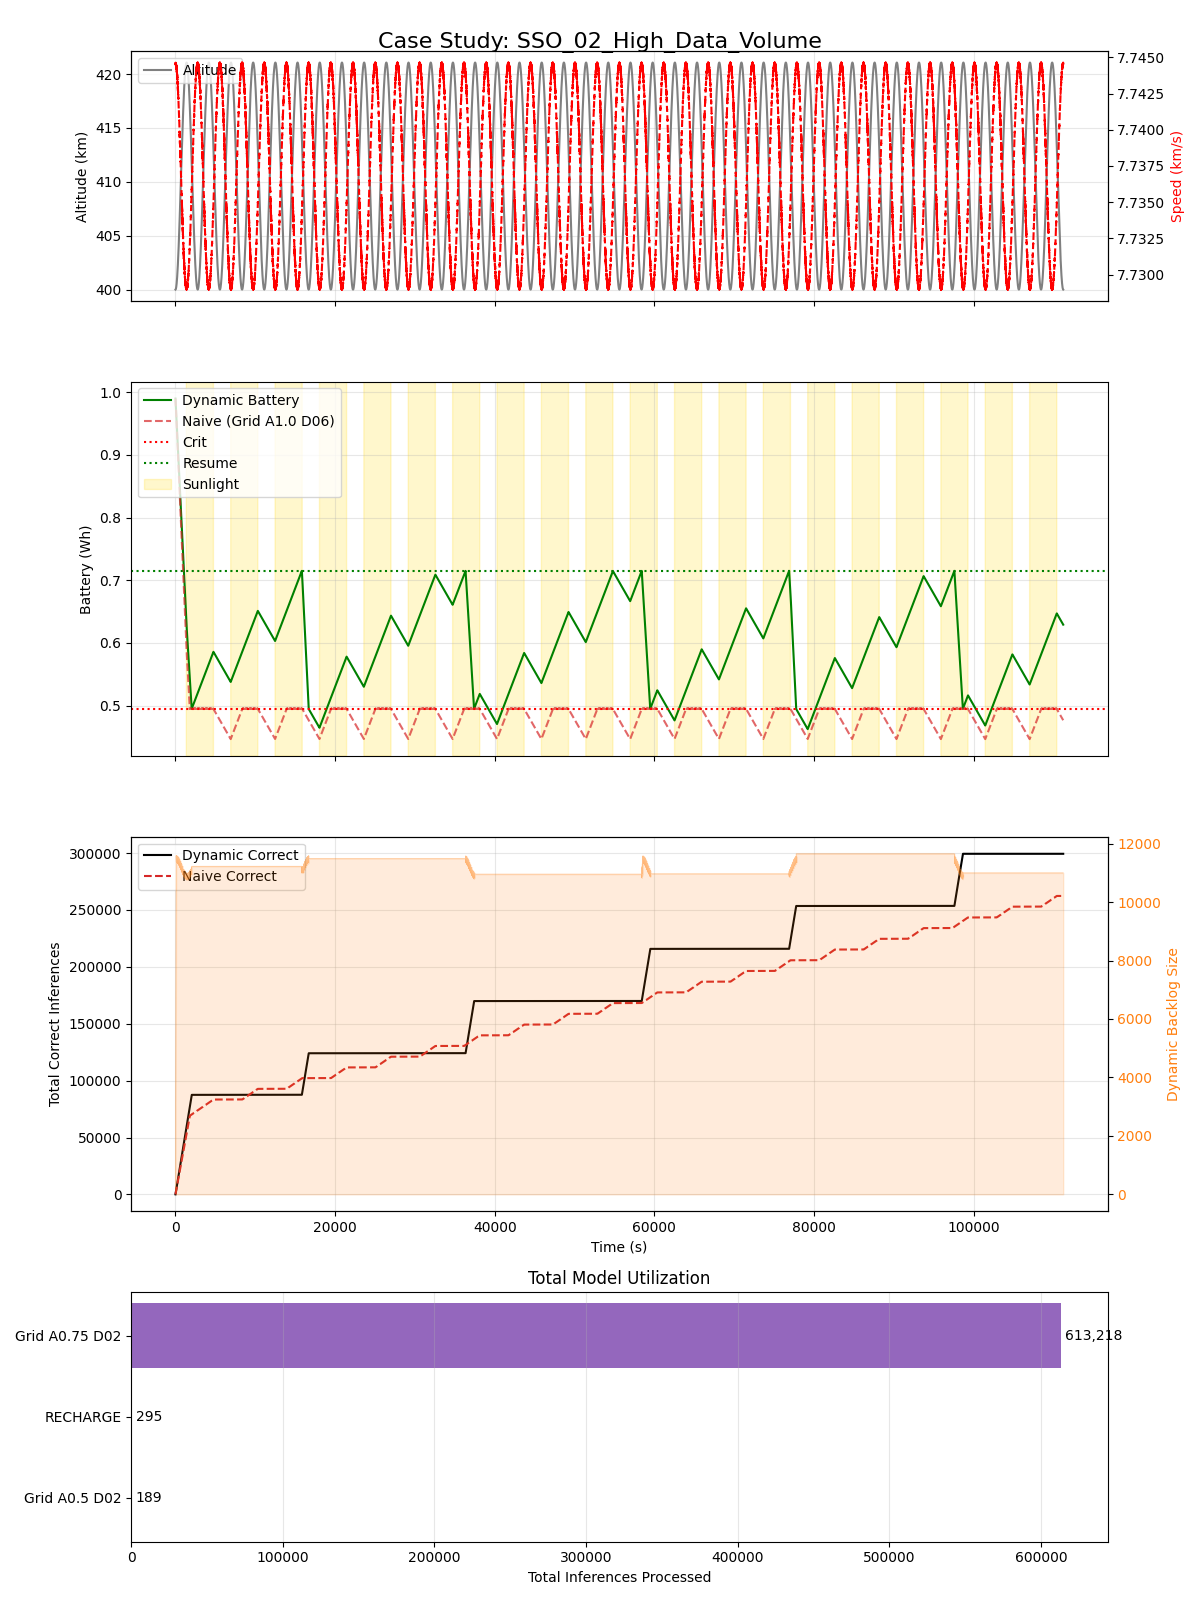
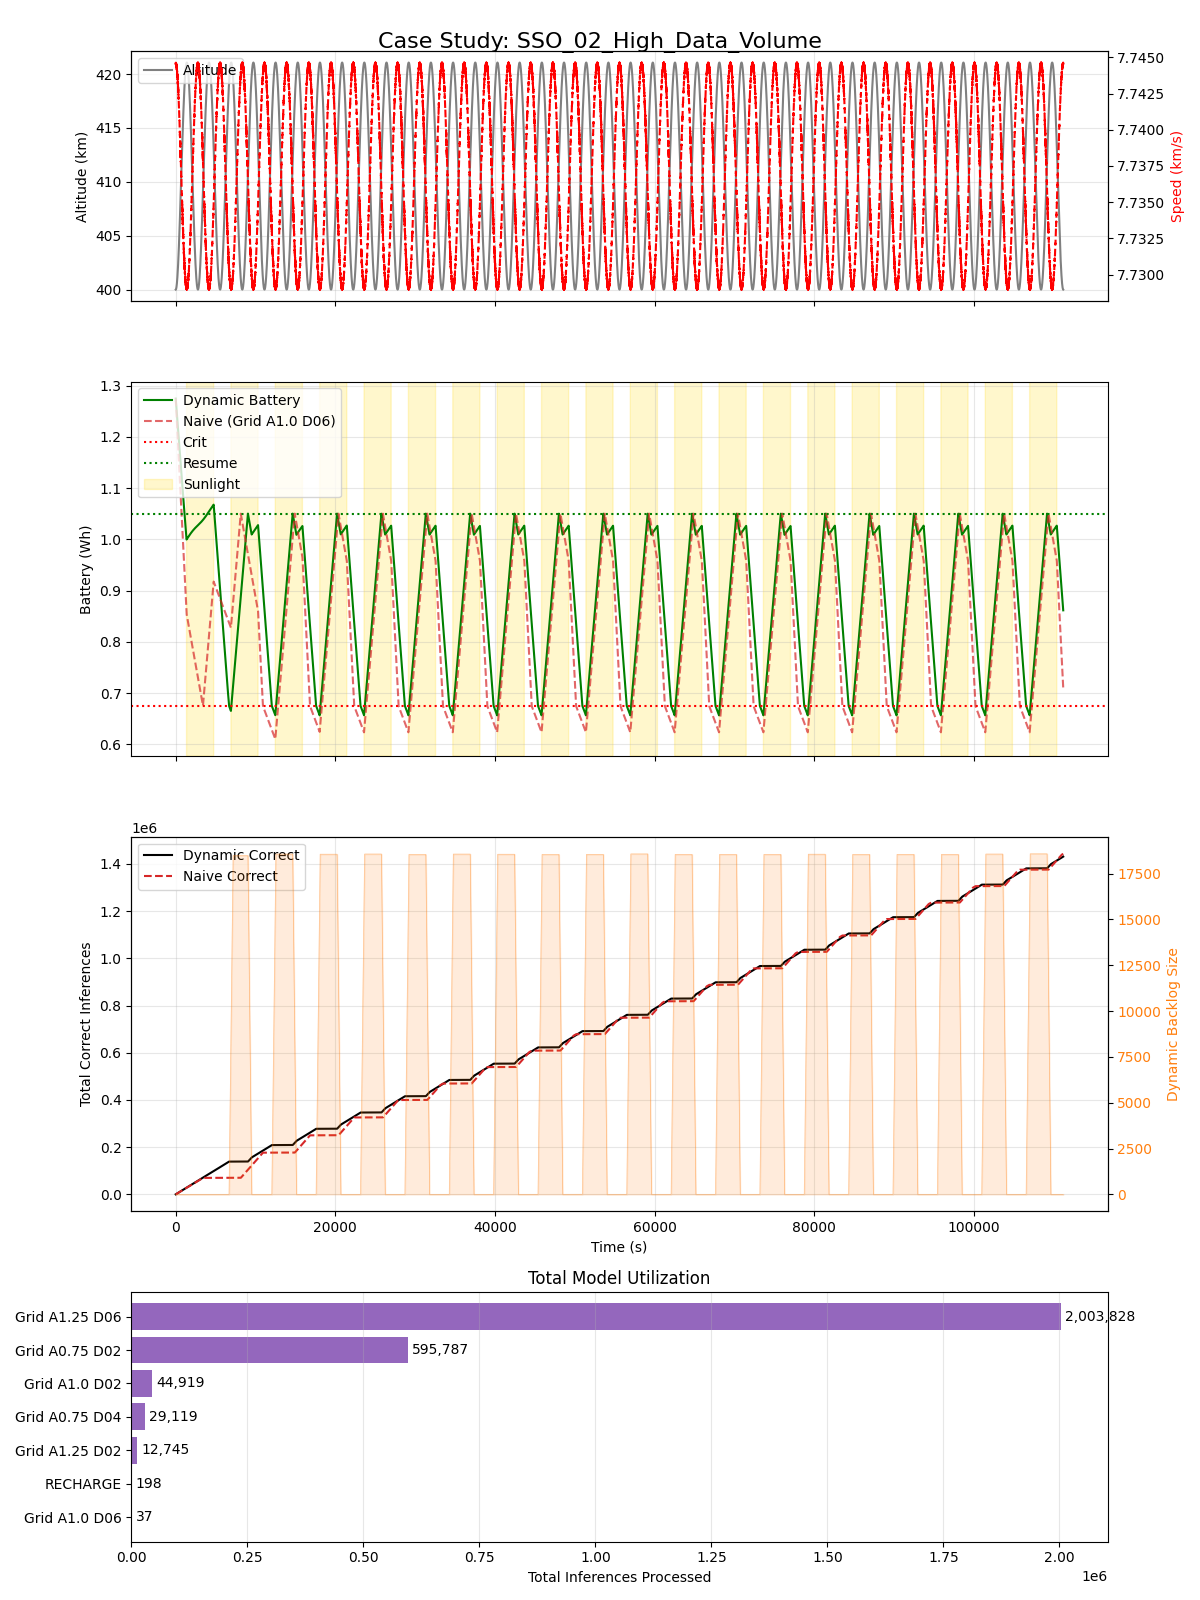
updated configs and generated new plots

diff --git a/src/scripts/dynamic_selection_sims/continuous_dynamic_execution.py b/src/scripts/dynamic_selection_sims/continuous_dynamic_execution.py
@@ -32,23 +32,56 @@ class ContinuousSatSim:
     and compute workloads using both a dynamic model selection strategy and 
     a naive baseline for comparison.
     """
-    DEFAULT_SYSTEM = {
-        'focal_length_mm': 500.0,
+    
+    BASE_SYSTEM = {
         'pixel_pitch_um': 3.45,
         'sensor_res': 4096,
-        'target_tile_km': 20.0,
         'tpu_dim': 224,
-        'min_pixels': 1,
-        
-        'battery_capacity_wh': 1.1,
-        'solar_generation_mw': 200.0,
-        'system_baseload_mw': 80.0,
-        'buffer_max_frames': 50, 
+        'min_pixels': 10,
+        'system_baseload_mw': 150.0,
         'sim_dt_s': 1.0,
-        'initial_charge_pct': 0.9,
-        'compute_enable_pct': 0.65,
-        'compute_disable_pct': 0.20,
+        
+        # Power Management Logic (Hysteresis)
+        'initial_charge_pct': 0.85,
+        'compute_enable_pct': 0.70,
+        'compute_disable_pct': 0.45,
     }
+
+    @staticmethod
+    def get_heo_config():
+        """
+        HEO Configuration: Optimized for long-range observation.
+        - Lens: 300mm Telephoto (High magnification for high altitude)
+        - Power: Larger Battery (5.2Wh) for extended operations/eclipses
+        - Solar: 800mW (Body mounted + small deployable)
+        """
+        cfg = ContinuousSatSim.BASE_SYSTEM.copy()
+        cfg.update({
+            'focal_length_mm': 300.0,
+            'target_tile_km': 50.0,
+            'battery_capacity_wh': 2.0,
+            'solar_generation_mw': 400.0,
+            'buffer_max_frames': 200,
+        })
+        return cfg
+
+    @staticmethod
+    def get_sso_config():
+        """
+        SSO Configuration: Optimized for high-speed mapping.
+        - Lens: 85mm Standard (Wider field of view for low altitude)
+        - Power: High Solar (1200mW) for rapid recharge between eclipses
+        - Battery: Standard (2.6Wh) - lighter weight, relies on generation
+        """
+        cfg = ContinuousSatSim.BASE_SYSTEM.copy()
+        cfg.update({
+            'focal_length_mm': 85.0,
+            'target_tile_km': 20.0,
+            'battery_capacity_wh': 1.5,  # ~1x 18650 cell
+            'solar_generation_mw': 800.0,
+            'buffer_max_frames': 500,
+        })
+        return cfg
 
     def __init__(self, orbit_data_path, model_json_path, output_dir, sat_prefix='HEO', num_orbits=1, model_source='Custom', naive_model_name=None):
         """
@@ -80,6 +113,10 @@ class ContinuousSatSim:
         df['acc_decimal'] = df['Top-1 Accuracy'] / 100.0
         df['lat_s'] = df['Measured Inference Time (ms)'] / 1000.0
         df['eng_j'] = df['Energy per Inference (mJ)'] / 1000.0
+        
+        # Precompute Correct Inferences Per Second/Joule for report
+        df['correct_infs_per_sec'] = (1.0 / df['lat_s']) * df['acc_decimal']
+        df['correct_infs_per_joule'] = (1.0 / df['eng_j']) * df['acc_decimal']
         
         return df
 
@@ -193,19 +230,13 @@ class ContinuousSatSim:
     def run_case_study(self, case_name, config_overrides=None, events=None):
         """
         Executes the main simulation loop.
-        1. Interpolates orbit data to the simulation time step.
-        2. Iterates through time, calculating power generation, data ingestion, and workload.
-        3. Runs two parallel logic streams:
-           - Dynamic: Uses _select_model to adapt to constraints.
-           - Naive: Runs a fixed model at max power whenever battery permits.
-        4. Logs telemetry and generates plots.
         """
         if self.raw_orbit.empty:
             print(f"[SKIP] Skipping {case_name} (Orbit data is empty or failed to load)")
             return
 
         print(f"\n>>> Running Case Study: {case_name}")
-        cfg = self.DEFAULT_SYSTEM.copy()
+        cfg = self.BASE_SYSTEM.copy()
         if config_overrides: cfg.update(config_overrides)
         
         sim_data = self._interpolate_orbit(self.raw_orbit, self.sunlight_intervals, cfg['sim_dt_s'], cfg)
@@ -236,8 +267,18 @@ class ContinuousSatSim:
         
         # Naive State
         n_battery_j = current_battery_j
+        n_recharging = False
         n_buffer = deque()
         n_total_correct = 0
+
+        # Reporting Stats
+        report_stats = {
+            'time_limited_count': 0,
+            'energy_limited_count': 0,
+            'buffered_count': 0,
+            'unprocessed_count': 0,
+            'total_steps': len(sim_data)
+        }
 
         logs = {
             'time_rel': [], 'battery_wh': [], 'buffer_count': [], 
@@ -268,16 +309,24 @@ class ContinuousSatSim:
             env_energy_j = (solar_w - base_w) * dt 
             infs_for_this_second = row['demand_infs_per_sec'] * dt
             
-            # Populate Buffers
+            # Populate Buffers & Track Frame Stats
+            buffered_this_step = False
             if row['px_per_object'] < cfg['min_pixels']:
                 active_model_name = "Blind" 
+                report_stats['unprocessed_count'] += 1 # Technically unprocessed as it's invalid
             else:
                 active_model_name = "Idle"
                 if infs_for_this_second > 1.0: 
                     if len(frame_buffer) < cfg['buffer_max_frames']:
                         frame_buffer.append(FrameJob(i, infs_for_this_second, t_rel))
+                        buffered_this_step = True
                         if naive_model is not None:
                             n_buffer.append(FrameJob(i, infs_for_this_second, t_rel))
+                    else:
+                        report_stats['unprocessed_count'] += 1 # Buffer overflow drop
+            
+            if buffered_this_step and len(frame_buffer) > 1:
+                 report_stats['buffered_count'] += 1
 
             # --- Dynamic Simulation Logic ---
             if current_battery_j < limit_disable_j: is_recharging = True
@@ -287,6 +336,7 @@ class ContinuousSatSim:
             processed_infs_step = 0
             processing_energy_j = 0
             current_accuracy = 0.0
+            step_limitation = None # For report stats
 
             while time_available_s > 0:
                 if cpu_blocked: active_model_name = "BLOCKED"; break
@@ -297,7 +347,11 @@ class ContinuousSatSim:
                     if len(frame_buffer) > 0:
                         current_job = frame_buffer.popleft()
                         energy_budget_j = current_battery_j - limit_disable_j 
-                        model, _ = self._select_model(energy_budget_j, time_available_s, current_job.total_inferences)
+                        model, reason = self._select_model(energy_budget_j, time_available_s, current_job.total_inferences)
+                        
+                        # Track limitation reason for the *selection*
+                        if reason == "Time_Limited": step_limitation = "Time"
+                        elif reason == "Energy_Limited": step_limitation = "Energy"
                         
                         if model is None: 
                             frame_buffer.appendleft(current_job)
@@ -329,26 +383,34 @@ class ContinuousSatSim:
                     
                     if current_job.remaining_inferences <= 1e-6: current_job = None
 
+            # Stats Accumulation
+            if step_limitation == "Time": report_stats['time_limited_count'] += 1
+            elif step_limitation == "Energy": report_stats['energy_limited_count'] += 1
+            
             total_load_w = base_w + (processing_energy_j / dt)
             current_battery_j = np.clip(current_battery_j + env_energy_j, 0, BATTERY_CAPACITY_J)
             total_infs_correct += processed_infs_step * current_accuracy
 
-            # --- Naive Simulation Logic ---
             if naive_model is not None:
-                step_energy_demand_j = dt * naive_power_w
+                if n_battery_j < limit_disable_j:
+                    n_recharging = True
+                elif n_recharging and n_battery_j > limit_enable_j:
+                    n_recharging = False
                 
-                if cpu_blocked or n_battery_j <= limit_disable_j:
+                if cpu_blocked or n_recharging:
                     n_battery_j = np.clip(n_battery_j + env_energy_j, 0, BATTERY_CAPACITY_J)
                 else:
-                    # Run blindly until battery dies or time runs out
+                    available_energy_j = max(0, n_battery_j - limit_disable_j)
+                    step_energy_demand_j = dt * naive_power_w
+                    
                     time_runnable_s = dt
-                    if n_battery_j < step_energy_demand_j:
-                        time_runnable_s = n_battery_j / naive_power_w
+                    if available_energy_j < step_energy_demand_j:
+                        time_runnable_s = available_energy_j / naive_power_w
+                        n_recharging = True 
                     
                     n_battery_j -= (time_runnable_s * naive_power_w)
                     potential_infs = time_runnable_s * naive_throughput_ips
                     
-                    # Consume buffer
                     processed_naive_infs = 0
                     while potential_infs > 0 and len(n_buffer) > 0:
                         job = n_buffer[0]
@@ -360,8 +422,7 @@ class ContinuousSatSim:
                     
                     n_battery_j = np.clip(n_battery_j + env_energy_j, 0, BATTERY_CAPACITY_J)
                     n_total_correct += processed_naive_infs * naive_model['acc_decimal']
-
-            # --- Logging ---
+            # logs
             buffer_backlog = sum(j.remaining_inferences for j in frame_buffer)
             if current_job: buffer_backlog += current_job.remaining_inferences
 
@@ -382,8 +443,55 @@ class ContinuousSatSim:
             logs['naive_cum_correct'].append(n_total_correct)
 
         self._plot_telemetry(logs, case_name, cfg)
-        print(f"[{case_name}] Dynamic Correct: {total_infs_correct:,.0f} | Naive Correct: {n_total_correct:,.0f}")
+        self._print_verbose_report(case_name, report_stats, logs)
         return logs
+
+    def _print_verbose_report(self, case_name, stats, logs):
+        """
+        Prints a detailed textual summary of the case study results.
+        Includes peak model performance metrics, system bottleneck statistics,
+        and model utilization breakdown.
+        """
+        print(f"\n{'='*60}")
+        print(f"CASE REPORT: {case_name}")
+        print(f"{'='*60}")
+        
+        # Find max correct inf/s model
+        best_throughput = self.models.loc[self.models['correct_infs_per_sec'].idxmax()]
+        # Find max correct inf/J model
+        best_efficiency = self.models.loc[self.models['correct_infs_per_joule'].idxmax()]
+        # Find highest accuracy
+        best_acc = self.models.loc[self.models['acc_decimal'].idxmax()]
+        
+        print(f"MODEL LANDSCAPE:")
+        print(f"  * Highest Throughput: {best_throughput['Model name']:<20} ({best_throughput['correct_infs_per_sec']:.1f} correct inf/s)")
+        print(f"  * Best Efficiency:    {best_efficiency['Model name']:<20} ({best_efficiency['correct_infs_per_joule']:.1f} correct inf/J)")
+        print(f"  * Max Accuracy:       {best_acc['Model name']:<20} ({best_acc['acc_decimal']*100:.1f}%)")
+        print("-" * 60)
+        
+        # simulation Stats
+        total_frames = stats['total_steps']
+        print(f"SIMULATION STATISTICS:")
+        if total_frames > 0:
+            print(f"  * Time Limited Frames:   {stats['time_limited_count']:5d} ({stats['time_limited_count']/total_frames*100:5.1f}%)")
+            print(f"  * Energy Limited Frames: {stats['energy_limited_count']:5d} ({stats['energy_limited_count']/total_frames*100:5.1f}%)")
+            print(f"  * Frames Buffered:       {stats['buffered_count']:5d} ({stats['buffered_count']/total_frames*100:5.1f}%)")
+            print(f"  * Frames Dropped/Missed: {stats['unprocessed_count']:5d} ({stats['unprocessed_count']/total_frames*100:5.1f}%)")
+        print("-" * 60)
+
+        # Utilization Breakdown
+        print(f"MODEL UTILIZATION (% of Active Processing Time):")
+        df_log = pd.DataFrame({'model': logs['model_name']})
+        # Filter out Idle/Recharge/Blocked/Blind to see just compute usage
+        compute_models = df_log[~df_log['model'].isin(['Idle', 'RECHARGE', 'BLOCKED', 'Blind'])]
+        
+        if not compute_models.empty:
+            breakdown = compute_models['model'].value_counts(normalize=True) * 100
+            for name, pct in breakdown.items():
+                print(f"  * {name:<30}: {pct:5.1f}%")
+        else:
+            print("  (No models executed)")
+        print(f"{'='*60}\n")
 
     def _interpolate_orbit(self, df, sunlight_intervals, dt, cfg):
         """
@@ -454,7 +562,7 @@ class ContinuousSatSim:
         ax3 = fig.add_subplot(gs[2], sharex=ax1)
         ax4 = fig.add_subplot(gs[3])
 
-        # Panel 1: Orbit
+        # Orbit
         ax1.plot(t_plot, logs['alt_km'], color='gray', label='Altitude')
         ax1.set_ylabel('Altitude (km)')
         ax1_t = ax1.twinx()
@@ -464,7 +572,7 @@ class ContinuousSatSim:
         ax1.grid(True, alpha=0.3)
         plt.setp(ax1.get_xticklabels(), visible=False)
 
-        # Panel 2: Energy
+        # Energy
         ax2.plot(t_plot, logs['battery_wh'], 'g', label='Dynamic Battery')
         if any(logs['naive_battery_wh']):
             ax2.plot(t_plot, logs['naive_battery_wh'], color='tab:red', linestyle='--', alpha=0.7, label=f'Naive ({self.naive_model_name})')
@@ -480,7 +588,7 @@ class ContinuousSatSim:
         ax2.grid(True, alpha=0.3)
         plt.setp(ax2.get_xticklabels(), visible=False)
 
-        # Panel 3: Performance & Backlog
+        # Performance & Backlog
         ax3.plot(t_plot, logs['cum_correct'], 'k', label='Dynamic Correct')
         if any(logs['naive_cum_correct']):
             ax3.plot(t_plot, logs['naive_cum_correct'], color='tab:red', linestyle='--', label='Naive Correct')
@@ -495,7 +603,7 @@ class ContinuousSatSim:
         ax3_t.tick_params(axis='y', labelcolor='tab:orange')
         ax3.set_xlabel('Time (s)')
 
-        # Panel 4: Utilization
+        # Utilization
         df_log = pd.DataFrame({'model': logs['model_name'], 'infs': logs['throughput_infs']})
         stats = df_log[df_log['infs'] > 0].groupby('model')['infs'].sum().sort_values()
         
@@ -524,26 +632,28 @@ def run_all_case_studies():
     sim_heo = ContinuousSatSim(orbit_path, model_json, out_dir, sat_prefix='HEO', num_orbits=1, naive_model_name='Grid A1.0 D06')
     
     # HEO Cases
-    sim_heo.run_case_study("HEO_01_Standard")
-    sim_heo.run_case_study("HEO_02_PowerCrisis", config_overrides={'initial_charge_pct': 0.25})
+    sim_heo.run_case_study("HEO_01_Standard", config_overrides=ContinuousSatSim.get_heo_config())
     
-    isr_events = [{'start': 20000, 'duration': 600, 'power_w': 120.0/1000.0, 'blocked': True}]
-    sim_heo.run_case_study("HEO_03_ISR_Interruption", events=isr_events)
+    heo_crisis = ContinuousSatSim.get_heo_config()
+    heo_crisis['initial_charge_pct'] = 0.25
+    sim_heo.run_case_study("HEO_02_PowerCrisis", config_overrides=heo_crisis)
+    
+    isr_events = [{'start': 20000, 'duration': 600, 'power_w': 1.5, 'blocked': True}] # 1.5W transmission
+    sim_heo.run_case_study("HEO_03_ISR_Interruption", config_overrides=ContinuousSatSim.get_heo_config(), events=isr_events)
 
     # SSO Cases 
     sim_sso = ContinuousSatSim(orbit_path, model_json, out_dir, sat_prefix='SSO', num_orbits=20, naive_model_name='Grid A1.0 D06')
     
-    # SSO 1: Standard Baseline
-    sim_sso.run_case_study("SSO_01_Standard", config_overrides={'compute_enable_pct': 0.65,'compute_disable_pct': 0.45}) 
+    sso_cfg = ContinuousSatSim.get_sso_config()
+    sim_sso.run_case_study("SSO_01_Standard", config_overrides=sso_cfg)
     
-    # SSO 2: High Data Volume
-    # This simulates a mission requirement to scan larger tiles
-    sim_sso.run_case_study("SSO_02_High_Data_Volume", 
-                        config_overrides={'target_tile_km': 40.0, 'compute_enable_pct': 0.65,'compute_disable_pct': 0.45})
+    sso_vol = sso_cfg.copy()
+    sso_vol['target_tile_km'] = 40.0 
+    sim_sso.run_case_study("SSO_02_High_Data_Volume", config_overrides=sso_vol)
     
-    # SSO 3: Power Degraded State
-    sim_sso.run_case_study("SSO_03_Degraded_Power", 
-                        config_overrides={'solar_generation_mw': 120.0,'compute_enable_pct': 0.65,'compute_disable_pct': 0.45})
+    sso_deg = sso_cfg.copy()
+    sso_deg['solar_generation_mw'] = 400.0  # Solar panels damaged (drop to 400mW)
+    sim_sso.run_case_study("SSO_03_Degraded_Power", config_overrides=sso_deg)
 
 if __name__ == "__main__":
     run_all_case_studies()
